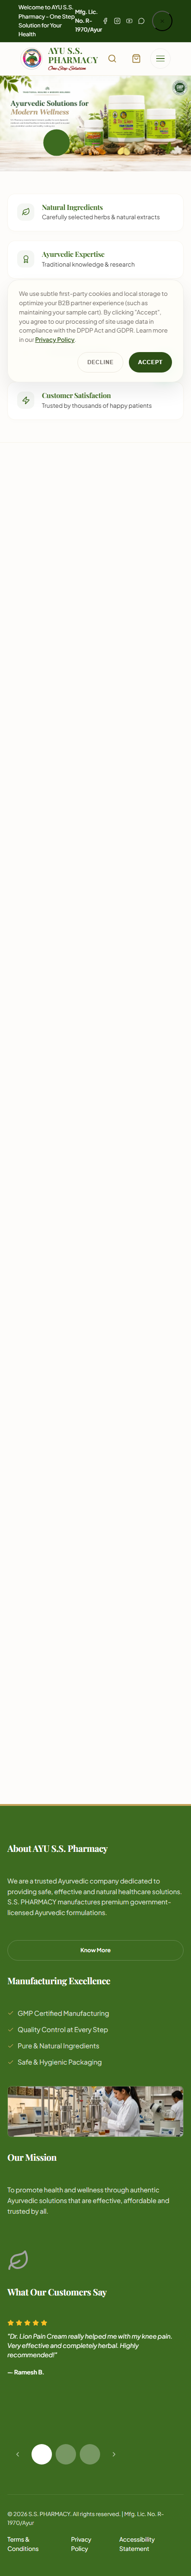
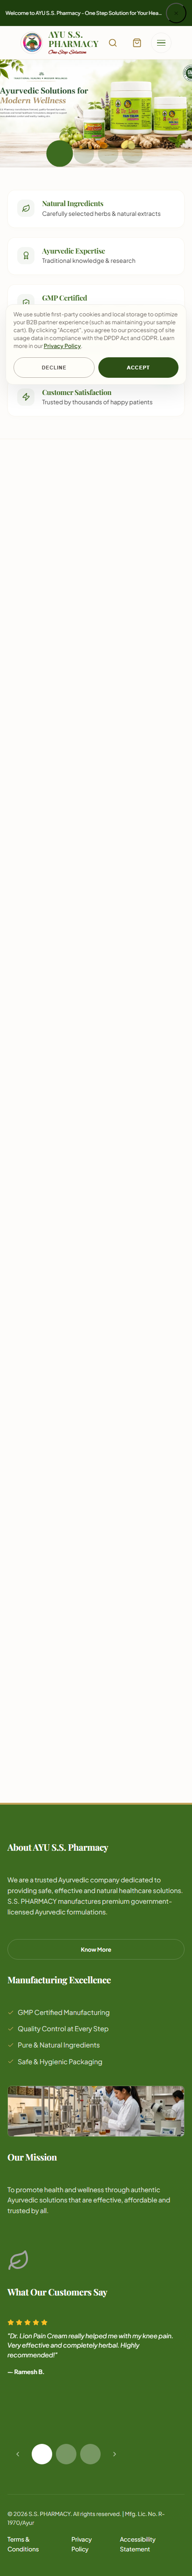
style: comprehensive mobile responsive polish for top bar, hero carousel, and cookie consent

diff --git a/src/styles/components.css b/src/styles/components.css
@@ -5161,8 +5161,10 @@
 /* Hero carousel banner min-height scaling for mobile viewports */
 @media (max-width: 768px) {
   .hero-carousel-image {
-    min-height: 200px;
-    object-fit: cover;
+    min-height: auto !important;
+    aspect-ratio: 16 / 9 !important;
+    object-fit: cover !important;
+    object-position: center !important;
   }
   .hero-title {
     font-size: 2.25rem !important;
@@ -5171,11 +5173,25 @@
 
 @media (max-width: 480px) {
   .hero-carousel-image {
-    min-height: 160px;
-    object-fit: cover;
+    min-height: auto !important;
+    aspect-ratio: 16 / 9 !important;
+    object-fit: cover !important;
+    object-position: center !important;
   }
   .hero-title {
     font-size: 1.75rem !important;
+  }
+  .hero-slider-dots {
+    bottom: 0.5rem !important;
+    gap: 0.5rem !important;
+  }
+  .hero-slider-dot {
+    width: 6px !important;
+    height: 6px !important;
+  }
+  .hero-slider-dot::after {
+    width: 20px !important;
+    height: 20px !important;
   }
 }
 
@@ -5328,10 +5344,31 @@
 
 @media (max-width: 640px) {
   .cookie-consent-banner {
-    bottom: 1rem;
-    left: 1rem;
-    right: 1rem;
-    max-width: calc(100% - 2rem);
+    bottom: 0.75rem !important;
+    left: 0.75rem !important;
+    right: 0.75rem !important;
+    max-width: calc(100% - 1.5rem) !important;
+    padding: 0.85rem 1rem !important;
+    border-radius: 1rem !important;
+  }
+
+  .cookie-consent-banner p {
+    font-size: 0.75rem !important;
+    line-height: 1.4 !important;
+  }
+
+  .cookie-consent-actions {
+    display: flex !important;
+    gap: 0.5rem !important;
+    width: 100% !important;
+  }
+
+  .btn-cookie-accept,
+  .btn-cookie-decline {
+    flex: 1 !important;
+    text-align: center !important;
+    padding: 0.45rem 0.5rem !important;
+    font-size: 0.7rem !important;
   }
 }
 

diff --git a/src/styles/layout.css b/src/styles/layout.css
@@ -586,3 +586,28 @@ button:active,
   transform: scale(0.98) !important;
 }
 
+/* Mobile Top Bar Polish */
+@media (max-width: 640px) {
+  .top-bar {
+    padding: 0.35rem 0.75rem !important;
+    gap: 0.5rem !important;
+  }
+  .top-bar-middle {
+    display: none !important;
+  }
+  .top-bar-left {
+    flex: 1 !important;
+    min-width: 0 !important;
+  }
+  .top-bar-left span {
+    font-size: 0.68rem !important;
+    white-space: nowrap !important;
+    overflow: hidden !important;
+    text-overflow: ellipsis !important;
+    display: block !important;
+  }
+  .top-bar-socials {
+    display: none !important;
+  }
+}
+